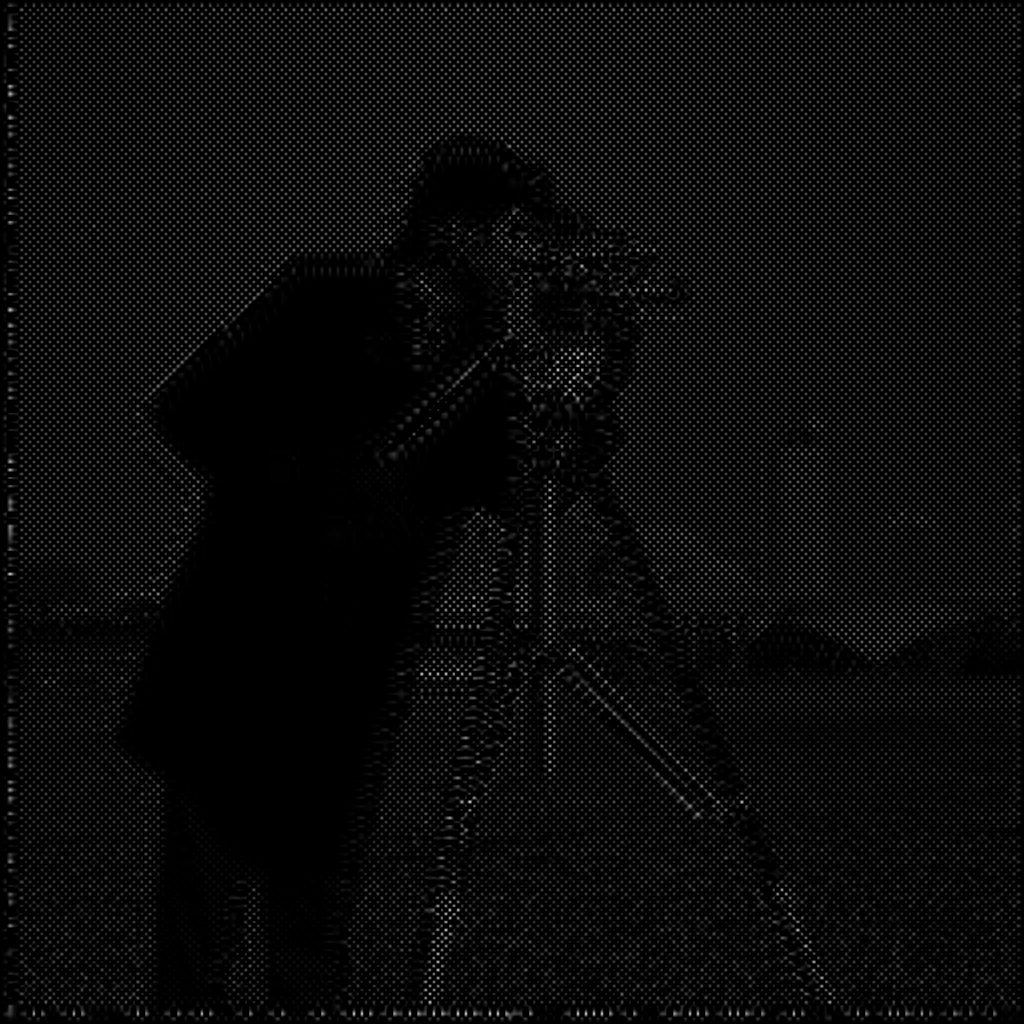
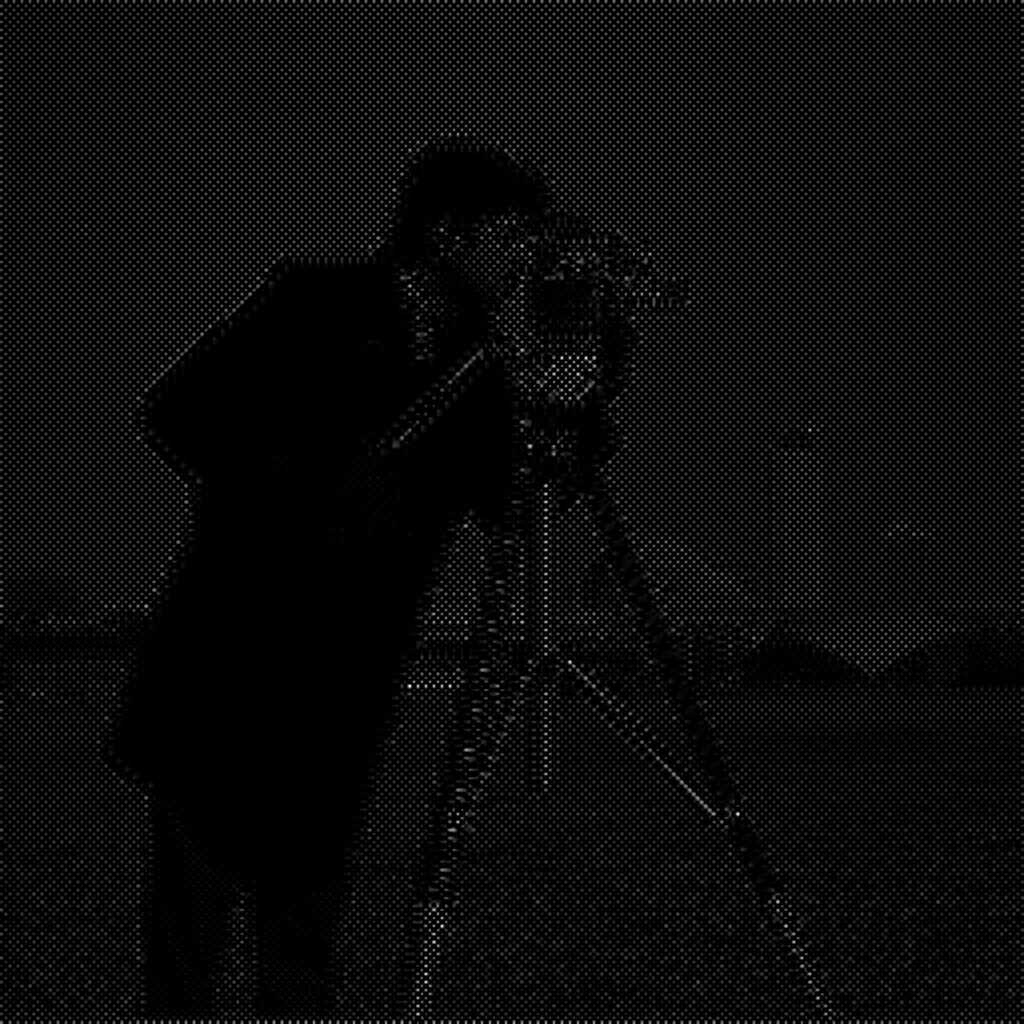
checkerboard artefact wtf

diff --git a/Main.cpp b/Main.cpp
@@ -91,6 +91,7 @@ int main() {
 	Texture output_2 = Texture{};
 	//-------------------------------------gen DWT matrix 
 	ShaderProgram comp_dwt_matrix("generate_transform.glsl", 256, 1);
+	ShaderProgram comp_idwt_matrix("generate_inverse_transform.glsl", 256, 1);
 
 	Texture dwt_mat = Texture{};
 	Texture::activate_tex_unit(0);
@@ -237,7 +238,7 @@ int main() {
 	
 	//------------------------------------------------------------------------------------------TRANSPOSE
 	//------------------------------------------------------------------------------------------TRANSPOSE	string path_trans_v = "transpose.cs";
-/*
+
 	Texture::activate_tex_unit(7);
 	input_img.bind_texture();
 	input_img.bind_image_2D(0);
@@ -250,7 +251,7 @@ int main() {
 	rot.use_shader_prog();
 	glDispatchCompute((unsigned int)ceil(1), (unsigned int)ceil(256), 1);
 	glMemoryBarrier(GL_SHADER_IMAGE_ACCESS_BARRIER_BIT);
-	*/
+	
 	//------------------------------------------------------------------------------------------TRANSPOSE
 	// 	string path_trans_v = "transpose.cs";
 	
@@ -326,7 +327,7 @@ int main() {
 
 		sh.use_shader_prog();
 		glActiveTexture(GL_TEXTURE7);
-		input_img.bind_texture();
+		dwt_mat_inv.bind_texture();
 
 		ShaderProgram::set_uniform(sh.ID, "filterTexture", (unsigned int)7);
 
@@ -335,7 +336,7 @@ int main() {
 		glDrawArrays(GL_TRIANGLES, 0, 6);
 		if (save) {
 
-			saveImg("C:\\Users\\Toms\\Desktop\\OpenGL\\WaveletTransform\\DB_2_First_bad_synthesis_output_1.png");
+			saveImg("C:\\Users\\Toms\\Desktop\\OpenGL\\WaveletTransform\\DB_2_IDWT_CIRCULAR_CONV_MATRIX.png");
 
 		}
 
